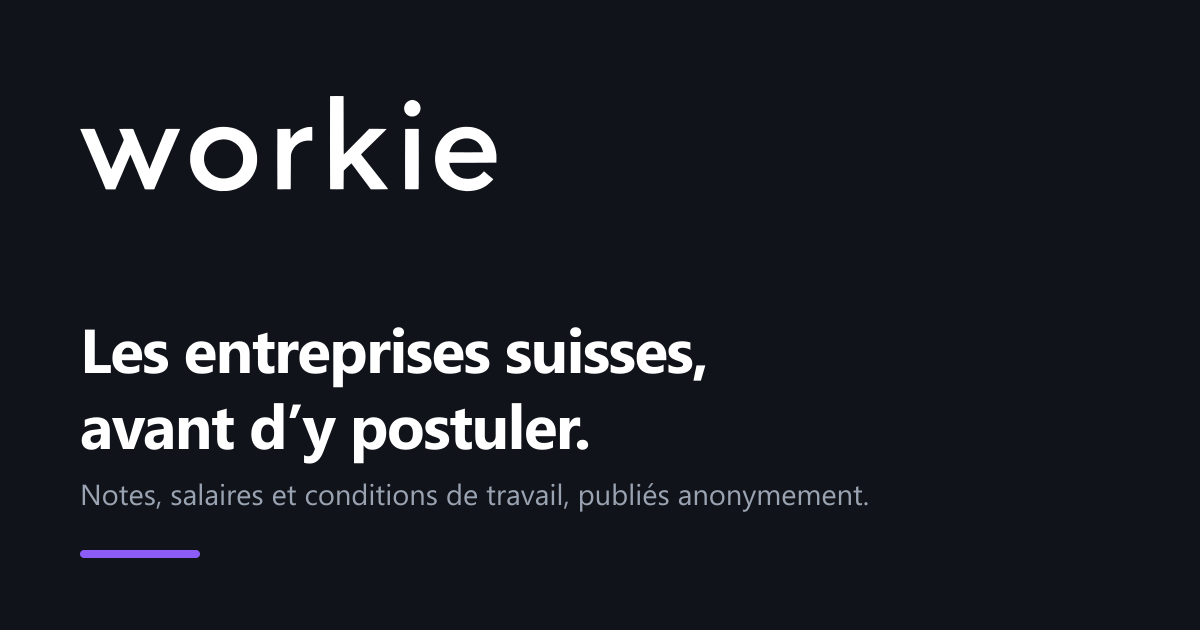
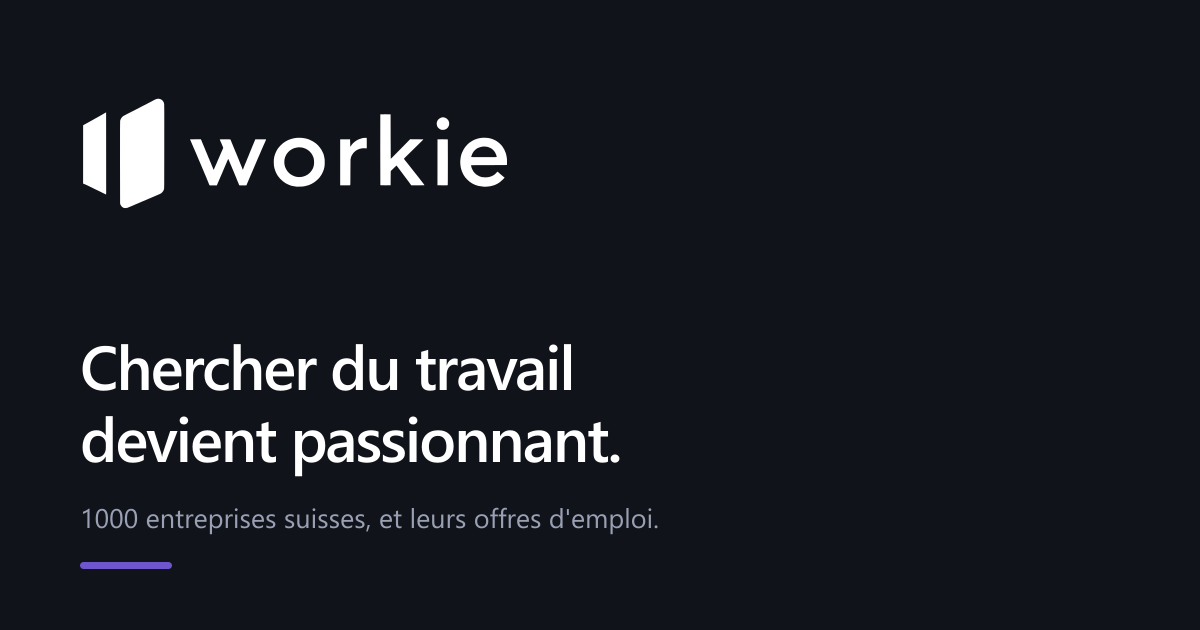
Image sociale et manifeste passent a la nouvelle identite

Changed region(s): [[0.0617, 0.5127, 0.7092, 0.8444], [0.0617, 0.1508, 0.4317, 0.3317], [0.0617, 0.8746, 0.185, 0.9048]]

diff --git a/src/app/manifest.ts b/src/app/manifest.ts
@@ -2,13 +2,13 @@ import type { MetadataRoute } from "next";
 
 export default function manifest(): MetadataRoute.Manifest {
   return {
-    name: "Workie : avis et salaires des entreprises suisses",
+    name: "Workie : chercher du travail devient passionnant",
     short_name: "Workie",
-    description: "Avis anonymes, salaires et culture des entreprises suisses.",
+    description: "Découvrez les entreprises suisses, gardez celles qui vous correspondent et trouvez leurs offres d'emploi.",
     start_url: "/explore",
     display: "standalone",
     background_color: "#0d0d0f",
-    theme_color: "#8b5cf6",
+    theme_color: "#101319",
     lang: "fr-CH",
     icons: [
       // Les deux fichiers déclarés ici étaient des SVG qui n'existent pas :
